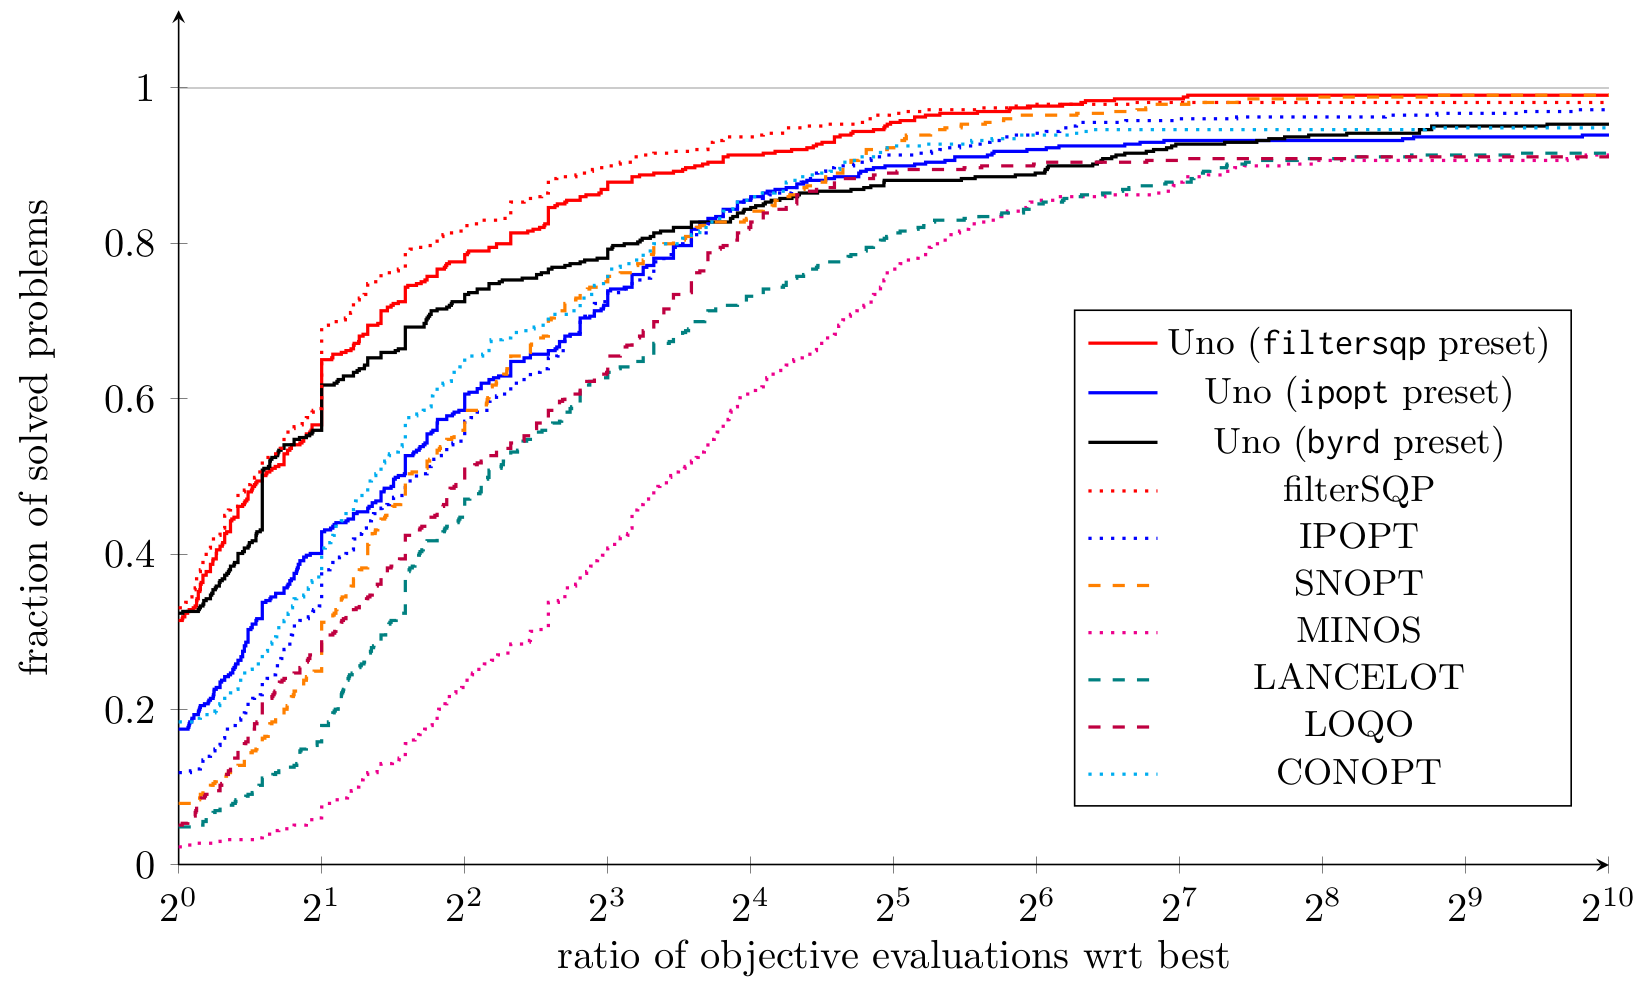
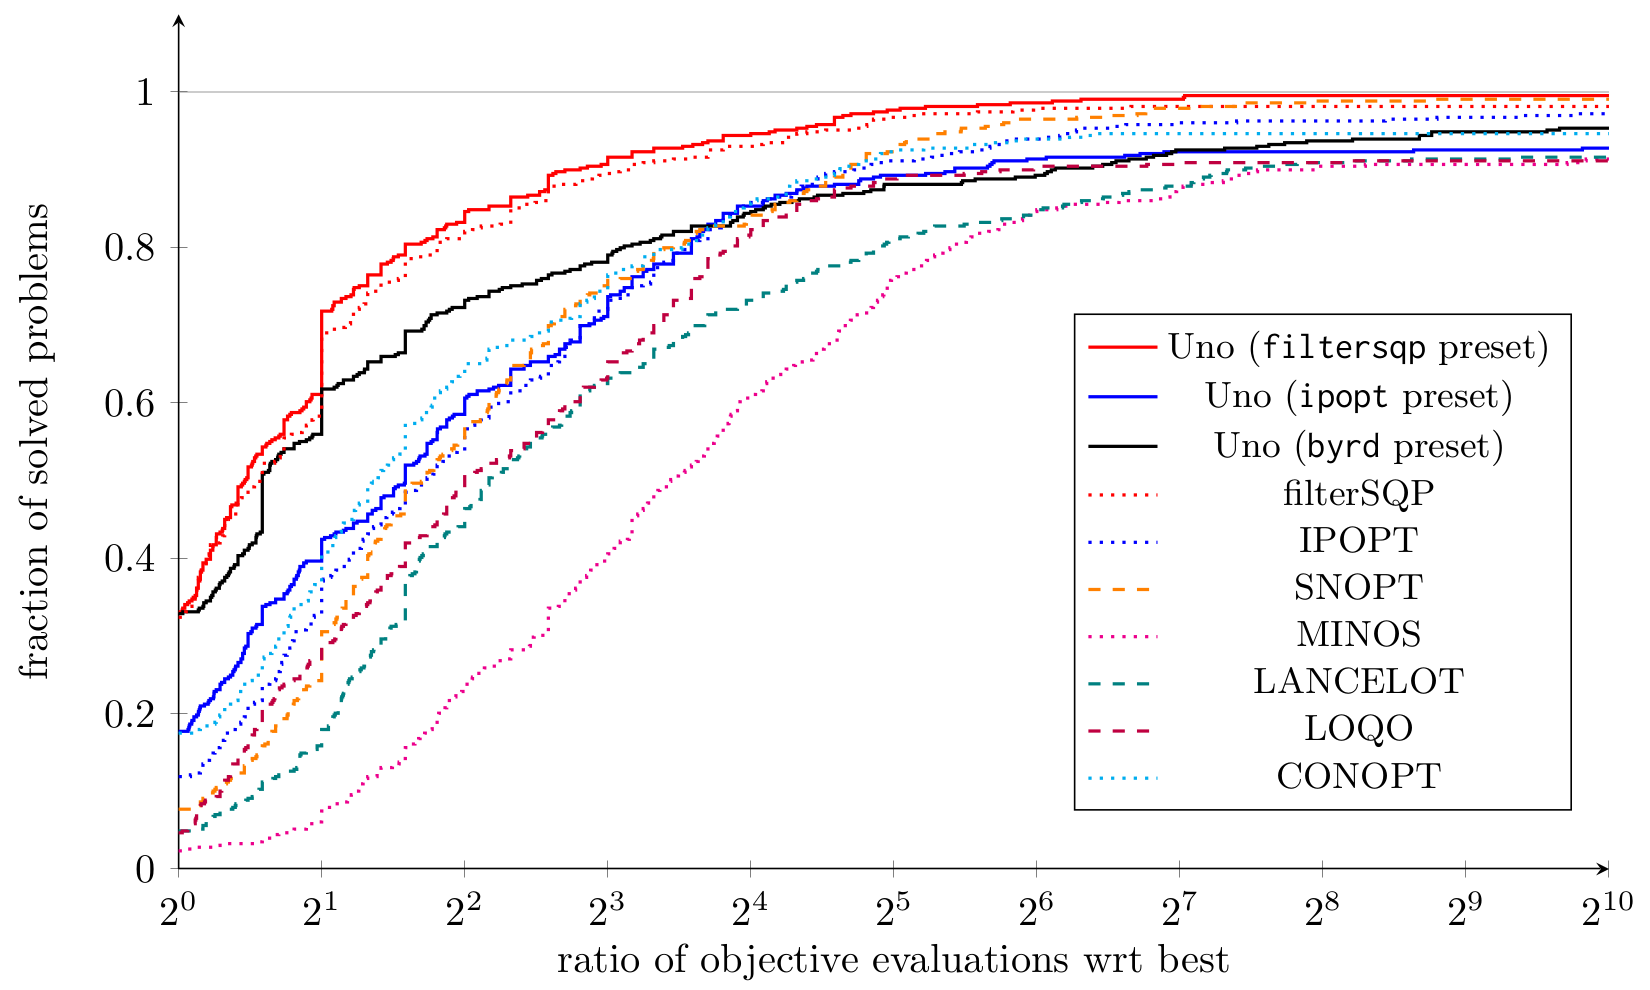
Added math notation to the predicted reduction models (infeas, scaled opt, unscaled opt), fixed severe bug (generation of predicted reduction model should happen after phase switch), updated the performance profile

diff --git a/uno/ingredients/constraint_relaxation_strategy/FeasibilityRestoration.cpp b/uno/ingredients/constraint_relaxation_strategy/FeasibilityRestoration.cpp
@@ -135,7 +135,7 @@ void FeasibilityRestoration::switch_to_optimality(Iterate& current_iterate, Iter
 }
 
 bool FeasibilityRestoration::is_acceptable(Statistics& statistics, Iterate& current_iterate, Iterate& trial_iterate, const Direction& direction,
-      PredictedReductionModel& predicted_reduction_model, double step_length) {
+      double step_length) {
    this->compute_progress_measures(current_iterate, trial_iterate, direction);
 
    bool accept = false;
@@ -145,6 +145,10 @@ bool FeasibilityRestoration::is_acceptable(Statistics& statistics, Iterate& curr
    }
    else {
       // evaluate the predicted reduction
+      PredictedReductionModels predicted_reduction_model = this->generate_predicted_reduction_model(current_iterate, direction);
+      DEBUG << "Infeasibility model:       " << predicted_reduction_model.infeasibility.text << '\n';
+      DEBUG << "Scaled optimality model:   " << predicted_reduction_model.scaled_optimality.text << '\n';
+      DEBUG << "Unscaled optimality model: " << predicted_reduction_model.unscaled_optimality.text << '\n';
       ProgressMeasures predicted_reduction = {
             predicted_reduction_model.infeasibility(step_length),
             predicted_reduction_model.scaled_optimality(step_length),
@@ -162,7 +166,7 @@ bool FeasibilityRestoration::is_acceptable(Statistics& statistics, Iterate& curr
    return accept;
 }
 
-PredictedReductionModel FeasibilityRestoration::generate_predicted_reduction_model(const Iterate& current_iterate, const Direction& direction) const {
+PredictedReductionModels FeasibilityRestoration::generate_predicted_reduction_model(const Iterate& current_iterate, const Direction& direction) const {
    return {
       this->generate_predicted_infeasibility_reduction_model(current_iterate, direction),
       this->generate_predicted_scaled_optimality_reduction_model(current_iterate, direction),
@@ -203,19 +207,19 @@ void FeasibilityRestoration::set_infeasibility_measure(Iterate& iterate) {
    }
 }
 
-std::function<double(double)> FeasibilityRestoration::generate_predicted_infeasibility_reduction_model(const Iterate& current_iterate,
+PredictedReductionModel FeasibilityRestoration::generate_predicted_infeasibility_reduction_model(const Iterate& current_iterate,
       const Direction& direction) const {
    if (this->current_phase == Phase::OPTIMALITY) {
-      return [&](double step_length) {
+      return {[&](double step_length) {
          const double linearized_constraint_violation = ConstraintRelaxationStrategy::compute_linearized_constraint_violation(this->original_model,
                current_iterate, direction, step_length);
          return current_iterate.primal_constraint_violation - linearized_constraint_violation;
-      };
+      }, "‖c(x)‖₁ - ‖c(x) + α*∇c(x)^T d‖₁"};
    }
    else {
-      return [](double /*step_length*/) {
+      return {[](double /*step_length*/) {
          return 0.;
-      };
+      }, "0"};
    }
 }
 
@@ -232,22 +236,22 @@ void FeasibilityRestoration::set_scaled_optimality_measure(Iterate& iterate) {
    }
 }
 
-std::function<double(double)> FeasibilityRestoration::generate_predicted_scaled_optimality_reduction_model(const Iterate& current_iterate,
+PredictedReductionModel FeasibilityRestoration::generate_predicted_scaled_optimality_reduction_model(const Iterate& current_iterate,
       const Direction& direction) const {
    if (this->current_phase == Phase::OPTIMALITY) {
       // precompute expensive quantities
       const double scaled_directional_derivative = dot(direction.primals, current_iterate.model_evaluations.objective_gradient);
-      return [=](double step_length) {
+      return {[=](double step_length) {
          // return a function of the step length that cheaply assembles the predicted reduction
          return step_length * (-scaled_directional_derivative);
-      };
+      }, "α*(-∇f(x)^T d)"};
    }
    else {
-      return [&](double step_length) {
+      return {[&](double step_length) {
          const double linearized_constraint_violation = ConstraintRelaxationStrategy::compute_linearized_constraint_violation(this->original_model,
                current_iterate, direction, step_length);
          return current_iterate.primal_constraint_violation - linearized_constraint_violation;
-      };
+      }, "‖c(x)‖₁ - ‖c(x) + α*∇c(x)^T d‖₁"};
    }
 }
 

diff --git a/uno/ingredients/constraint_relaxation_strategy/l1Relaxation.cpp b/uno/ingredients/constraint_relaxation_strategy/l1Relaxation.cpp
@@ -235,7 +235,7 @@ void l1Relaxation::compute_progress_measures(Iterate& current_iterate, Iterate& 
 }
 
 bool l1Relaxation::is_acceptable(Statistics& statistics, Iterate& current_iterate, Iterate& trial_iterate, const Direction& direction,
-      PredictedReductionModel& predicted_reduction_model, double step_length) {
+      double step_length) {
    this->compute_progress_measures(current_iterate, trial_iterate, direction);
 
    bool accept = false;
@@ -245,6 +245,10 @@ bool l1Relaxation::is_acceptable(Statistics& statistics, Iterate& current_iterat
    }
    else {
       // evaluate the predicted reduction
+      PredictedReductionModels predicted_reduction_model = this->generate_predicted_reduction_model(current_iterate, direction);
+      DEBUG << "Infeasibility model:      " << predicted_reduction_model.infeasibility.text << '\n';
+      DEBUG << "Scaled optimality model:  " << predicted_reduction_model.scaled_optimality.text << '\n';
+      DEBUG << "Unscaled optimality model:" << predicted_reduction_model.unscaled_optimality.text << '\n';
       ProgressMeasures predicted_reduction = {
             predicted_reduction_model.infeasibility(step_length),
             predicted_reduction_model.scaled_optimality(step_length),
@@ -261,7 +265,7 @@ bool l1Relaxation::is_acceptable(Statistics& statistics, Iterate& current_iterat
    return accept;
 }
 
-PredictedReductionModel l1Relaxation::generate_predicted_reduction_model(const Iterate& current_iterate, const Direction& direction) const {
+PredictedReductionModels l1Relaxation::generate_predicted_reduction_model(const Iterate& current_iterate, const Direction& direction) const {
    return {
       this->generate_predicted_infeasibility_reduction_model(current_iterate, direction),
       this->generate_predicted_scaled_optimality_reduction_model(current_iterate, direction),
@@ -281,18 +285,18 @@ void l1Relaxation::set_infeasibility_measure(Iterate& iterate) {
    }
 }
 
-std::function<double(double)> l1Relaxation::generate_predicted_infeasibility_reduction_model(const Iterate& current_iterate, const Direction& direction) const {
+PredictedReductionModel l1Relaxation::generate_predicted_infeasibility_reduction_model(const Iterate& current_iterate, const Direction& direction) const {
    if (0. < this->penalty_parameter) {
-      return [&](double step_length) {
+      return {[&](double step_length) {
          const double linearized_constraint_violation = ConstraintRelaxationStrategy::compute_linearized_constraint_violation(this->original_model,
                current_iterate, direction, step_length);
          return current_iterate.primal_constraint_violation - linearized_constraint_violation;
-      };
+      }, "‖c(x)‖₁ - ‖c(x) + α*∇c(x)^T d‖₁"};
    }
    else {
-      return [](double /*step_length*/) {
+      return {[](double /*step_length*/) {
          return 0.;
-      };
+      }, "0"};
    }
 }
 
@@ -309,22 +313,22 @@ void l1Relaxation::set_scaled_optimality_measure(Iterate& iterate) {
    }
 }
 
-std::function<double(double)> l1Relaxation::generate_predicted_scaled_optimality_reduction_model(const Iterate& current_iterate,
+PredictedReductionModel l1Relaxation::generate_predicted_scaled_optimality_reduction_model(const Iterate& current_iterate,
       const Direction& direction) const {
    if (0. < this->penalty_parameter) {
       // precompute expensive quantities
       const double scaled_directional_derivative = this->penalty_parameter*dot(direction.primals, current_iterate.model_evaluations.objective_gradient);
-      return [=](double step_length) {
+      return {[=](double step_length) {
          // return a function of the step length that cheaply assembles the predicted reduction
          return step_length * (-scaled_directional_derivative);
-      };
+      }, "α*(-ρ*∇f(x)^T d)"};
    }
    else {
-      return [&](double step_length) {
+      return {[&](double step_length) {
          const double linearized_constraint_violation = ConstraintRelaxationStrategy::compute_linearized_constraint_violation(this->original_model,
                current_iterate, direction, step_length);
          return current_iterate.primal_constraint_violation - linearized_constraint_violation;
-      };
+      }, "‖c(x)‖_1 - ‖c(x) + α*∇c(x)^T d‖_1"};
    }
 }
 

diff --git a/uno/ingredients/globalization_mechanism/BacktrackingLineSearch.cpp b/uno/ingredients/globalization_mechanism/BacktrackingLineSearch.cpp
@@ -46,7 +46,6 @@ std::tuple<Iterate, double> BacktrackingLineSearch::compute_acceptable_iterate(S
    // compute the direction
    this->constraint_relaxation_strategy.set_variable_bounds(current_iterate, INF<double>);
    Direction direction = this->compute_direction(statistics, current_iterate);
-   PredictedReductionModel predicted_reduction_model = this->constraint_relaxation_strategy.generate_predicted_reduction_model(current_iterate, direction);
    this->solving_feasibility_problem = false;
 
    // backtrack along the direction
@@ -62,7 +61,7 @@ std::tuple<Iterate, double> BacktrackingLineSearch::compute_acceptable_iterate(S
          Iterate trial_iterate = GlobalizationMechanism::assemble_trial_iterate(current_iterate, direction, this->step_length);
          try {
             const bool is_acceptable = this->constraint_relaxation_strategy.is_acceptable(statistics, current_iterate, trial_iterate,
-                  direction, predicted_reduction_model, this->step_length);
+                  direction, this->step_length);
             if (is_acceptable) {
                // let the subproblem know the accepted iterate
                this->constraint_relaxation_strategy.register_accepted_iterate(trial_iterate);
@@ -80,8 +79,7 @@ std::tuple<Iterate, double> BacktrackingLineSearch::compute_acceptable_iterate(S
                // assemble the (temporary) SOC trial iterate
                Iterate trial_iterate_soc = GlobalizationMechanism::assemble_trial_iterate(current_iterate, direction_soc, this->step_length);
                this->constraint_relaxation_strategy.compute_progress_measures(current_iterate, trial_iterate_soc, direction_soc);
-               if (this->constraint_relaxation_strategy.is_acceptable(statistics, current_iterate, trial_iterate_soc, direction_soc,
-                     predicted_reduction_model, this->step_length)) {
+               if (this->constraint_relaxation_strategy.is_acceptable(statistics, current_iterate, trial_iterate_soc, direction_soc, this->step_length)) {
                   DEBUG << "Trial SOC step accepted\n";
                   this->set_statistics(statistics, direction_soc);
                   statistics.add_statistic("SOC", "x");
@@ -113,7 +111,6 @@ std::tuple<Iterate, double> BacktrackingLineSearch::compute_acceptable_iterate(S
          DEBUG << "The line search failed, switching to feasibility problem\n";
          // reset the line search with the restoration solution
          direction = this->constraint_relaxation_strategy.solve_feasibility_problem(statistics, current_iterate, direction.primals);
-         predicted_reduction_model = this->constraint_relaxation_strategy.generate_predicted_reduction_model(current_iterate, direction);
          this->step_length = 1.;
          this->number_iterations = 0;
          this->solving_feasibility_problem = true;

diff --git a/uno/ingredients/constraint_relaxation_strategy/ConstraintRelaxationStrategy.hpp b/uno/ingredients/constraint_relaxation_strategy/ConstraintRelaxationStrategy.hpp
@@ -4,18 +4,12 @@
 #ifndef UNO_CONSTRAINTRELAXATIONSTRATEGY_H
 #define UNO_CONSTRAINTRELAXATIONSTRATEGY_H
 
-#include <functional>
+#include "ingredients/globalization_strategy/PredictedReductionModel.hpp"
 #include "ingredients/subproblem/Subproblem.hpp"
 #include "ingredients/subproblem/Direction.hpp"
 #include "optimization/Iterate.hpp"
 #include "tools/Statistics.hpp"
 #include "tools/Options.hpp"
-
-struct PredictedReductionModel {
-   std::function<double(double)> infeasibility;
-   std::function<double(double)> scaled_optimality;
-   std::function<double(double)> unscaled_optimality;
-};
 
 class ConstraintRelaxationStrategy {
 public:
@@ -33,9 +27,8 @@ public:
 
    // trial iterate acceptance
    virtual void compute_progress_measures(Iterate& current_iterate, Iterate& trial_iterate, const Direction& direction) = 0;
-   virtual bool is_acceptable(Statistics& statistics, Iterate& current_iterate, Iterate& trial_iterate, const Direction& direction,
-         PredictedReductionModel& predicted_reduction_model, double step_length) = 0;
-   [[nodiscard]] virtual PredictedReductionModel generate_predicted_reduction_model(const Iterate& current_iterate, const Direction& direction) const = 0;
+   virtual bool is_acceptable(Statistics& statistics, Iterate& current_iterate, Iterate& trial_iterate, const Direction& direction, double step_length) = 0;
+   [[nodiscard]] virtual PredictedReductionModels generate_predicted_reduction_model(const Iterate& current_iterate, const Direction& direction) const = 0;
    virtual void register_accepted_iterate(Iterate& iterate) = 0;
 
    [[nodiscard]] virtual size_t get_hessian_evaluation_count() const = 0;

diff --git a/uno/ingredients/constraint_relaxation_strategy/FeasibilityRestoration.hpp b/uno/ingredients/constraint_relaxation_strategy/FeasibilityRestoration.hpp
@@ -29,8 +29,8 @@ public:
    // trial iterate acceptance
    void compute_progress_measures(Iterate& current_iterate, Iterate& trial_iterate, const Direction& direction) override;
    [[nodiscard]] bool is_acceptable(Statistics& statistics, Iterate& current_iterate, Iterate& trial_iterate, const Direction& direction,
-         PredictedReductionModel& predicted_reduction_model, double step_length) override;
-   [[nodiscard]] PredictedReductionModel generate_predicted_reduction_model(const Iterate& current_iterate,
+         double step_length) override;
+   [[nodiscard]] PredictedReductionModels generate_predicted_reduction_model(const Iterate& current_iterate,
          const Direction& direction) const override;
    void register_accepted_iterate(Iterate& iterate) override;
 
@@ -55,10 +55,10 @@ private:
 
    // progress measures and their local models
    void set_infeasibility_measure(Iterate& iterate);
-   [[nodiscard]] std::function<double(double)> generate_predicted_infeasibility_reduction_model(const Iterate& current_iterate,
+   [[nodiscard]] PredictedReductionModel generate_predicted_infeasibility_reduction_model(const Iterate& current_iterate,
          const Direction& direction) const;
    void set_scaled_optimality_measure(Iterate& iterate);
-   [[nodiscard]] std::function<double(double)> generate_predicted_scaled_optimality_reduction_model(const Iterate& current_iterate,
+   [[nodiscard]] PredictedReductionModel generate_predicted_scaled_optimality_reduction_model(const Iterate& current_iterate,
          const Direction& direction) const;
 };
 

diff --git a/uno/ingredients/constraint_relaxation_strategy/l1Relaxation.hpp b/uno/ingredients/constraint_relaxation_strategy/l1Relaxation.hpp
@@ -35,8 +35,8 @@ public:
    // trial iterate acceptance
    void compute_progress_measures(Iterate& current_iterate, Iterate& trial_iterate, const Direction& direction) override;
    [[nodiscard]] bool is_acceptable(Statistics& statistics, Iterate& current_iterate, Iterate& trial_iterate, const Direction& direction,
-         PredictedReductionModel& predicted_reduction_model, double step_length) override;
-   [[nodiscard]] PredictedReductionModel generate_predicted_reduction_model(const Iterate& current_iterate,
+         double step_length) override;
+   [[nodiscard]] PredictedReductionModels generate_predicted_reduction_model(const Iterate& current_iterate,
       const Direction& direction) const override;
    void register_accepted_iterate(Iterate& iterate) override;
 
@@ -67,10 +67,10 @@ protected:
 
    // progress measures and their local models
    void set_infeasibility_measure(Iterate& iterate);
-   [[nodiscard]] std::function<double(double)> generate_predicted_infeasibility_reduction_model(const Iterate& current_iterate,
+   [[nodiscard]] PredictedReductionModel generate_predicted_infeasibility_reduction_model(const Iterate& current_iterate,
          const Direction& direction) const;
    void set_scaled_optimality_measure(Iterate& iterate);
-   [[nodiscard]] std::function<double(double)> generate_predicted_scaled_optimality_reduction_model(const Iterate& current_iterate,
+   [[nodiscard]] PredictedReductionModel generate_predicted_scaled_optimality_reduction_model(const Iterate& current_iterate,
          const Direction& direction) const;
 };
 

diff --git a/uno/ingredients/subproblem/interior_point/InfeasibleInteriorPointSubproblem.cpp b/uno/ingredients/subproblem/interior_point/InfeasibleInteriorPointSubproblem.cpp
@@ -255,12 +255,12 @@ void InfeasibleInteriorPointSubproblem::set_unscaled_optimality_measure(const No
    iterate.nonlinear_progress.unscaled_optimality = barrier_terms;
 }
 
-std::function<double(double)> InfeasibleInteriorPointSubproblem::generate_predicted_unscaled_optimality_reduction_model(const NonlinearProblem& problem,
+PredictedReductionModel InfeasibleInteriorPointSubproblem::generate_predicted_unscaled_optimality_reduction_model(const NonlinearProblem& problem,
       const Iterate& current_iterate, const Direction& direction) const {
    const double directional_derivative = this->compute_barrier_term_directional_derivative(problem, current_iterate, direction);
-   return [=](double step_length) {
+   return {[=](double step_length) {
       return step_length * (-directional_derivative);
-   };
+   }, "α*(μ*X^{-1} e^T d)"};
 }
 
 double InfeasibleInteriorPointSubproblem::compute_barrier_term_directional_derivative(const NonlinearProblem& problem, const Iterate& current_iterate,

diff --git a/uno/ingredients/globalization_mechanism/TrustRegionStrategy.cpp b/uno/ingredients/globalization_mechanism/TrustRegionStrategy.cpp
@@ -46,9 +46,7 @@ std::tuple<Iterate, double> TrustRegionStrategy::compute_acceptable_iterate(Stat
          this->reset_trust_region_multipliers(direction, trial_iterate);
 
          // check whether the trial step is accepted
-         PredictedReductionModel predicted_reduction_model = this->constraint_relaxation_strategy.generate_predicted_reduction_model(current_iterate, direction);
-         const bool is_acceptable = this->constraint_relaxation_strategy.is_acceptable(statistics, current_iterate, trial_iterate, direction,
-               predicted_reduction_model, 1.);
+         const bool is_acceptable = this->constraint_relaxation_strategy.is_acceptable(statistics, current_iterate, trial_iterate, direction, 1.);
          if (is_acceptable) {
             // let the subproblem know the accepted iterate
             this->constraint_relaxation_strategy.register_accepted_iterate(trial_iterate);

diff --git a/uno/ingredients/subproblem/Subproblem.hpp b/uno/ingredients/subproblem/Subproblem.hpp
@@ -6,6 +6,7 @@
 
 #include <vector>
 #include <memory>
+#include "ingredients/globalization_strategy/PredictedReductionModel.hpp"
 #include "optimization/Model.hpp"
 #include "optimization/Iterate.hpp"
 #include "reformulation/l1RelaxedProblem.hpp"
@@ -33,7 +34,7 @@ public:
 
    // globalization metrics
    virtual void set_unscaled_optimality_measure(const NonlinearProblem& problem, Iterate& iterate) = 0;
-   [[nodiscard]] virtual std::function<double(double)> generate_predicted_unscaled_optimality_reduction_model(const NonlinearProblem& problem,
+   [[nodiscard]] virtual PredictedReductionModel generate_predicted_unscaled_optimality_reduction_model(const NonlinearProblem& problem,
          const Iterate& current_iterate, const Direction& direction) const = 0;
 
    virtual void postprocess_accepted_iterate(const NonlinearProblem& model, Iterate& iterate) = 0;

diff --git a/uno/ingredients/subproblem/active_set/ActiveSetSubproblem.cpp b/uno/ingredients/subproblem/active_set/ActiveSetSubproblem.cpp
@@ -69,11 +69,11 @@ void ActiveSetSubproblem::set_unscaled_optimality_measure(const NonlinearProblem
    iterate.nonlinear_progress.unscaled_optimality = 0.;
 }
 
-std::function<double(double)> ActiveSetSubproblem::generate_predicted_unscaled_optimality_reduction_model(const NonlinearProblem& /*problem*/,
+PredictedReductionModel ActiveSetSubproblem::generate_predicted_unscaled_optimality_reduction_model(const NonlinearProblem& /*problem*/,
       const Iterate& /*current_iterate*/, const Direction& /*direction*/) const {
-   return [=](double /*step_length*/) {
+   return {[=](double /*step_length*/) {
       return 0.;
-   };
+   }, "0"};
 }
 
 void ActiveSetSubproblem::postprocess_accepted_iterate(const NonlinearProblem& /*problem*/, Iterate& /*iterate*/) {

diff --git a/uno/ingredients/globalization_strategy/PredictedReductionModel.hpp b/uno/ingredients/globalization_strategy/PredictedReductionModel.hpp
@@ -1,0 +1,25 @@
+// Copyright (c) 2022 Charlie Vanaret
+// Licensed under the MIT license. See LICENSE file in the project directory for details.
+
+#ifndef UNO_PREDICTEDREDUCTIONMODEL_H
+#define UNO_PREDICTEDREDUCTIONMODEL_H
+
+#include <functional>
+#include <string>
+
+struct PredictedReductionModel {
+   std::function<double(double step_length)> function;
+   std::string text;
+
+   double operator()(double step_length) const {
+      return this->function(step_length);
+   }
+};
+
+struct PredictedReductionModels {
+   PredictedReductionModel infeasibility;
+   PredictedReductionModel scaled_optimality;
+   PredictedReductionModel unscaled_optimality;
+};
+
+#endif // UNO_PREDICTEDREDUCTIONMODEL_H

diff --git a/uno/ingredients/subproblem/interior_point/InfeasibleInteriorPointSubproblem.hpp b/uno/ingredients/subproblem/interior_point/InfeasibleInteriorPointSubproblem.hpp
@@ -36,7 +36,7 @@ public:
    [[nodiscard]] Direction compute_second_order_correction(const NonlinearProblem& problem, Iterate& trial_iterate) override;
 
    void set_unscaled_optimality_measure(const NonlinearProblem& problem, Iterate& iterate) override;
-   [[nodiscard]] std::function<double(double)> generate_predicted_unscaled_optimality_reduction_model(const NonlinearProblem& problem,
+   [[nodiscard]] PredictedReductionModel generate_predicted_unscaled_optimality_reduction_model(const NonlinearProblem& problem,
          const Iterate& current_iterate, const Direction& direction) const override;
 
    void postprocess_accepted_iterate(const NonlinearProblem& problem, Iterate& iterate) override;
